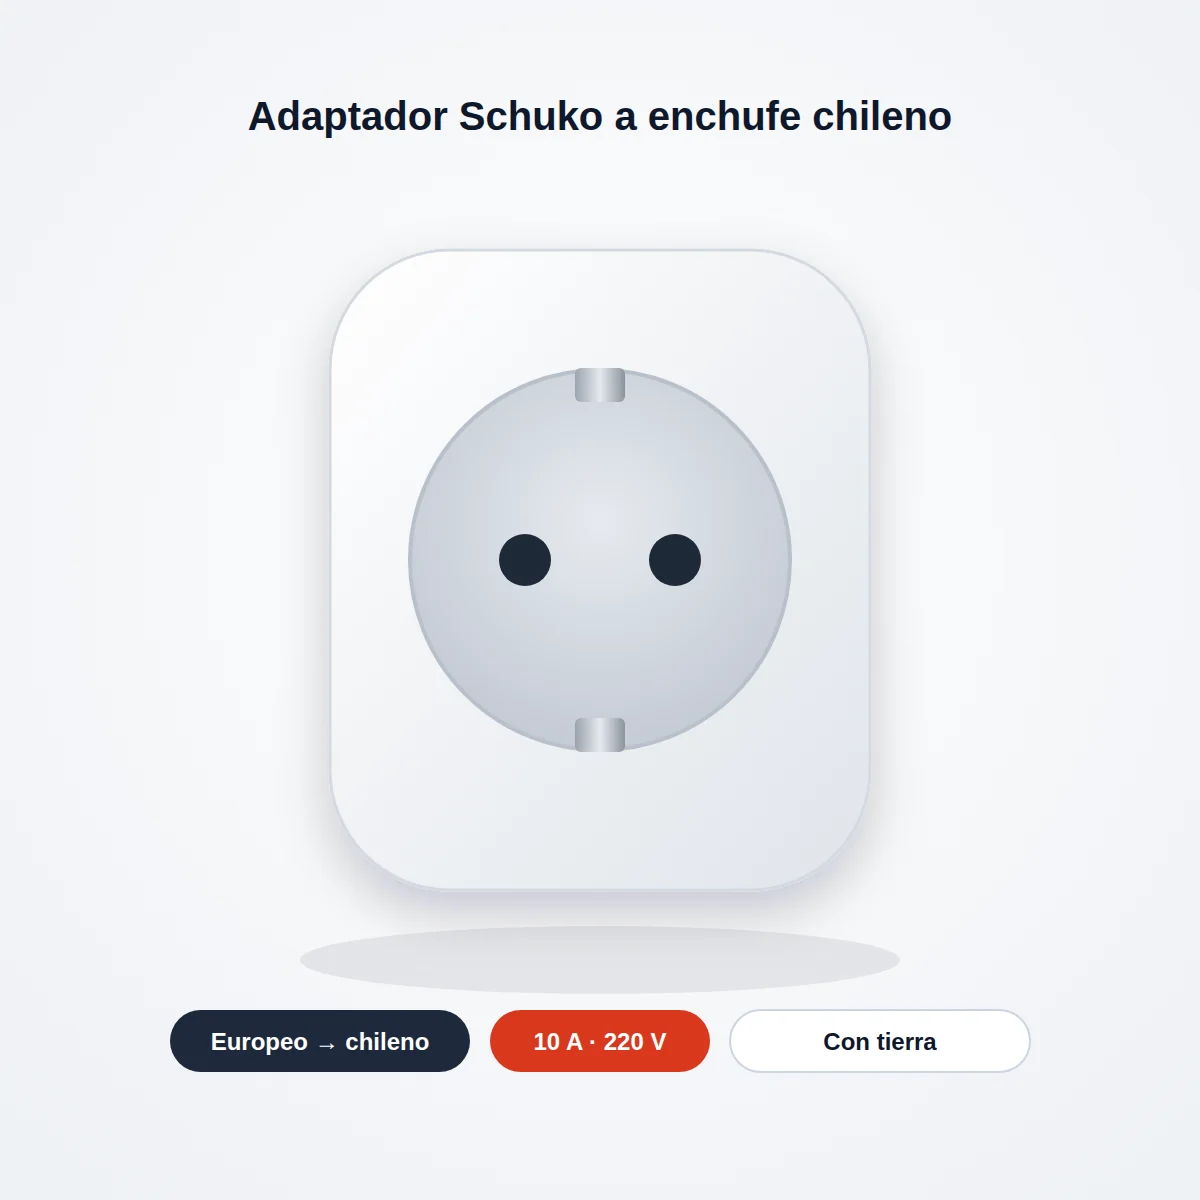
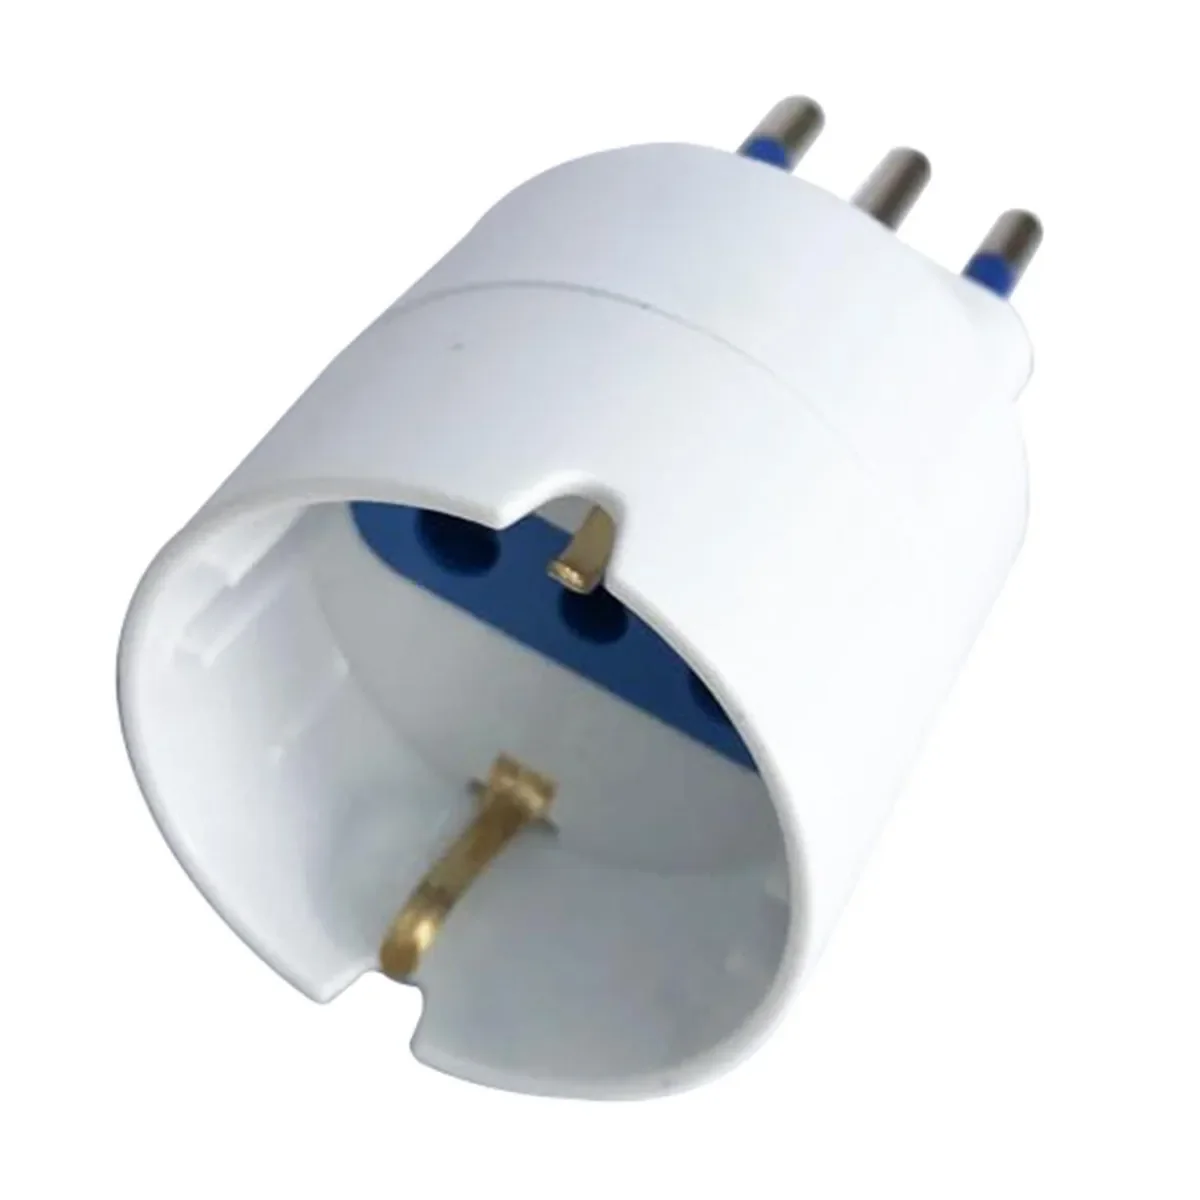
Halux adapter: real photos and overload protection details
Photos confirm the direction (Chilean 3-pin plug, Schuko socket) and
show an overload protector with manual reset and insulated pins.
Adds the three photos in a gallery and documents those features in
the spec table, safety tips, FAQ and catalog card.

Claude-Session: https://claude.ai/code/session_01DBPAUYL8BrfvACdajPm8UX

diff --git a/producto/adaptador-schuko-a-enchufe-chileno-10a.html b/producto/adaptador-schuko-a-enchufe-chileno-10a.html
@@ -28,8 +28,8 @@
 "@context":"https://schema.org",
 "@type":"Product",
 "name":"Adaptador Schuko a enchufe chileno 10 A blanco Halux",
-"description":"Adaptador Halux con toma Schuko (enchufe europeo) y enchufe chileno de 10 A, para conectar artefactos con enchufe europeo Schuko a enchufes de pared chilenos. 10 A, 220 V, una entrada, color blanco, garantía de 1 año.",
-"image":["https://www.ferreteriaukra.cl/producto/adaptador-schuko-a-enchufe-chileno-10a.webp"],
+"description":"Adaptador Halux con toma Schuko (enchufe europeo) y enchufe chileno de 3 patas de 10 A, para conectar artefactos con enchufe europeo Schuko a enchufes de pared chilenos. Con protección contra sobrecargas de rearme manual y patas con aislación en la base. 10 A, 220 V, una entrada, color blanco, garantía de 1 año.",
+"image":["https://www.ferreteriaukra.cl/producto/adaptador-schuko-a-enchufe-chileno-10a.webp","https://www.ferreteriaukra.cl/producto/adaptador-schuko-a-enchufe-chileno-10a-02.webp","https://www.ferreteriaukra.cl/producto/adaptador-schuko-a-enchufe-chileno-10a-03.webp"],
 "brand":{"@type":"Brand","name":"HALUX"},
 "color":"Blanco",
 "category":"Material eléctrico - Adaptadores de enchufe",
@@ -50,6 +50,8 @@
 {"@type":"PropertyValue","name":"Tensión","value":"220 V"},
 {"@type":"PropertyValue","name":"Potencia máxima","value":"2.200 W a 220 V"},
 {"@type":"PropertyValue","name":"Entradas","value":"1"},
+{"@type":"PropertyValue","name":"Protección","value":"Contra sobrecargas, rearme manual"},
+{"@type":"PropertyValue","name":"Patas","value":"Con aislación en la base"},
 {"@type":"PropertyValue","name":"Garantía","value":"1 año"}
 ]
 }
@@ -76,6 +78,7 @@
 {"@type":"Question","name":"¿Qué es un enchufe Schuko?","acceptedAnswer":{"@type":"Answer","text":"Es el enchufe europeo de dos patas redondas gruesas con contactos de tierra en los costados (tipo F). Lo traen muchos electrodomésticos importados, como cafeteras espresso, freidoras de aire, aspiradoras y herramientas, y no entra en el enchufe chileno de tres patas en línea."}},
 {"@type":"Question","name":"¿Cuánta potencia soporta el adaptador?","acceptedAnswer":{"@type":"Answer","text":"Es de 10 A, lo que equivale a 2.200 W en 220 V. Para artefactos que funcionan por horas, como estufas, recomendamos no pasar de unos 1.800 W para que el adaptador no se caliente."}},
 {"@type":"Question","name":"¿Sirve para viajar a Europa?","acceptedAnswer":{"@type":"Answer","text":"No, este adaptador funciona al revés: permite usar en Chile artefactos con enchufe europeo. Para usar tus artefactos chilenos en Europa necesitas el adaptador de enchufe chileno a Schuko."}},
+{"@type":"Question","name":"¿Qué hago si el adaptador deja de dar corriente?","acceptedAnswer":{"@type":"Answer","text":"Tiene una protección contra sobrecargas que corta la corriente si el artefacto consume más de lo que soporta. Desenchúfalo, espera unos 3 minutos y vuelve a enchufarlo, como indica su etiqueta. Si se corta seguido, el artefacto consume demasiado para un adaptador: conviene un enchufe Schuko fijo."}},
 {"@type":"Question","name":"¿Hacen envíos a regiones?","acceptedAnswer":{"@type":"Answer","text":"Sí, despachamos a todo Chile. Puedes comprar en línea o escribirnos por WhatsApp."}}
 ]
 }
@@ -258,7 +261,7 @@ try{var c=document.cookie.match(/(?:^|;\s*)rel_consent=([^;]+)/);if(c&&c[1]==='g
   <div>
     <div class="eyebrow">Material eléctrico · Adaptadores de enchufe</div>
     <h1 id="titulo-producto">Adaptador Schuko a Enchufe Chileno 10 A Blanco</h1>
-    <p class="lede">¿Tu cafetera, freidora de aire o herramienta trae <strong>enchufe europeo Schuko</strong> y no entra en el enchufe de tu casa? Este <strong>adaptador de enchufe europeo a chileno</strong> te deja conectarla a cualquier <strong>enchufe chileno de 10 A</strong>, sin cortar el cable y manteniendo la <strong>conexión a tierra</strong>.</p>
+    <p class="lede">¿Tu cafetera, freidora de aire o herramienta trae <strong>enchufe europeo Schuko</strong> y no entra en el enchufe de tu casa? Este <strong>adaptador de enchufe europeo a chileno</strong> te deja conectarla a cualquier <strong>enchufe chileno de 10 A</strong>, sin cortar el cable y manteniendo la <strong>conexión a tierra</strong>. Incluye <strong>protección contra sobrecargas</strong>.</p>
     <div class="price-panel" role="group" aria-label="Precio y cobertura de envío">
       <span class="price-label">Precio</span><strong>$5.890 <small>CLP</small></strong><span class="shipping">Envíos a todo Chile</span>
     </div>
@@ -272,11 +275,16 @@ try{var c=document.cookie.match(/(?:^|;\s*)rel_consent=([^;]+)/);if(c&&c[1]==='g
   </div>
   <div class="hero-media">
     <div class="main-shot">
-      <img id="mainShot" src="/producto/adaptador-schuko-a-enchufe-chileno-10a.webp" alt="Adaptador de enchufe Schuko europeo a enchufe chileno 10 A blanco" width="800" height="800" loading="eager">
+      <img id="mainShot" src="/producto/adaptador-schuko-a-enchufe-chileno-10a.webp" alt="Adaptador de enchufe Schuko europeo a enchufe chileno 10 A: toma Schuko con contactos de tierra" width="800" height="800" loading="eager">
       <div class="stock-note">
         <strong>En stock</strong>
         <span>Despacho en 24-48 h hábiles</span>
       </div>
+    </div>
+    <div class="thumbs" role="group" aria-label="Fotos del producto">
+      <button type="button" aria-current="true" data-src="/producto/adaptador-schuko-a-enchufe-chileno-10a.webp" data-alt="Adaptador de enchufe Schuko europeo a enchufe chileno 10 A: toma Schuko con contactos de tierra"><img src="/producto/adaptador-schuko-a-enchufe-chileno-10a.webp" alt="Ver foto de la toma Schuko del adaptador" width="84" height="84"></button>
+      <button type="button" data-src="/producto/adaptador-schuko-a-enchufe-chileno-10a-02.webp" data-alt="Enchufe chileno de 3 patas del adaptador Schuko, con aislación en la base y etiqueta de protección contra sobrecargas"><img src="/producto/adaptador-schuko-a-enchufe-chileno-10a-02.webp" alt="Ver foto del enchufe chileno de 3 patas" width="84" height="84" loading="lazy"></button>
+      <button type="button" data-src="/producto/adaptador-schuko-a-enchufe-chileno-10a-03.webp" data-alt="Adaptador Schuko a enchufe chileno con protección contra sobrecargas, vista de la toma"><img src="/producto/adaptador-schuko-a-enchufe-chileno-10a-03.webp" alt="Ver otra vista del adaptador" width="84" height="84" loading="lazy"></button>
     </div>
   </div>
 </section>
@@ -285,7 +293,7 @@ try{var c=document.cookie.match(/(?:^|;\s*)rel_consent=([^;]+)/);if(c&&c[1]==='g
 <section class="trust" aria-label="Garantías y servicio">
 <div class="trust-inner">
   <div class="trust-item"><strong>🔌 Europeo → chileno</strong><span>Toma Schuko, enchufe chileno 10 A</span></div>
-  <div class="trust-item"><strong>🌍 Con tierra</strong><span>No pierdes la protección del artefacto</span></div>
+  <div class="trust-item"><strong>⚡ Protección de sobrecarga</strong><span>Corta si el consumo es excesivo; mantiene la tierra</span></div>
   <div class="trust-item"><strong>🚚 Envío a todo Chile</strong><span>Despacho a domicilio o retiro</span></div>
   <div class="trust-item"><strong>🛡 Garantía 1 año</strong><span>Garantía del fabricante</span></div>
 </div>
@@ -313,11 +321,13 @@ try{var c=document.cookie.match(/(?:^|;\s*)rel_consent=([^;]+)/);if(c&&c[1]==='g
 <tbody>
 <tr><td>Marca</td><td>Halux</td></tr>
 <tr><td>Toma (hembra)</td><td>Schuko, para enchufes europeos tipo F</td></tr>
-<tr><td>Enchufe (macho)</td><td>Chileno de 10 A</td></tr>
+<tr><td>Enchufe (macho)</td><td>Chileno de 3 patas en línea, 10 A, con aislación en la base de las patas</td></tr>
 <tr><td>Corriente</td><td>10 A</td></tr>
 <tr><td>Tensión</td><td>220 V</td></tr>
 <tr><td>Potencia máxima</td><td>2.200 W a 220 V</td></tr>
 <tr><td>Entradas</td><td>1</td></tr>
+<tr><td>Protección</td><td>Contra sobrecargas, con rearme manual</td></tr>
+<tr><td>Conexión a tierra</td><td>Sí</td></tr>
 <tr><td>Color</td><td>Blanco</td></tr>
 <tr><td>Garantía</td><td>1 año</td></tr>
 </tbody>
@@ -379,6 +389,7 @@ try{var c=document.cookie.match(/(?:^|;\s*)rel_consent=([^;]+)/);if(c&&c[1]==='g
 <ul>
   <li><strong>No encadenes adaptadores</strong> ni lo conectes a una zapatilla ya cargada.</li>
   <li><strong>Enchúfalo a fondo.</strong> Un contacto flojo se calienta.</li>
+  <li><strong>Si la protección corta la corriente,</strong> desenchufa el adaptador, espera unos 3 minutos y vuelve a enchufarlo, como indica su etiqueta. Si corta seguido, el artefacto consume demasiado para un adaptador.</li>
   <li><strong>Si se pone tibio o huele a plástico, desconéctalo:</strong> el artefacto consume más de lo que el adaptador soporta.</li>
   <li><strong>Evita zonas húmedas</strong> como el borde del lavaplatos o el baño.</li>
   <li><strong>La tierra depende de tu instalación.</strong> El adaptador la traspasa, pero si tu enchufe de pared no tiene tierra, el artefacto tampoco. Más detalles en la ficha del <a href="/producto/cable-tierra-verde-2-5-mm2-libre-halogenos-100m">cable de tierra</a>.</li>
@@ -407,6 +418,11 @@ try{var c=document.cookie.match(/(?:^|;\s*)rel_consent=([^;]+)/);if(c&&c[1]==='g
 </details>
 
 <details>
+  <summary>¿Qué hago si el adaptador deja de dar corriente?</summary>
+  <p>Actuó la protección contra sobrecargas. Desenchúfalo, espera unos 3 minutos y vuelve a enchufarlo. Si se corta seguido, conviene un enchufe Schuko fijo.</p>
+</details>
+
+<details>
   <summary>¿Hacen envíos a regiones?</summary>
   <p>Sí, despachamos a todo Chile. Puedes comprar en línea o escribirnos por WhatsApp.</p>
 </details>
@@ -419,7 +435,7 @@ try{var c=document.cookie.match(/(?:^|;\s*)rel_consent=([^;]+)/);if(c&&c[1]==='g
   <div class="card">
     <span class="pill">Adaptador Schuko</span>
     <h2>Enchufe europeo a chileno 10 A</h2>
-    <p>Para usar en Chile artefactos con enchufe Schuko. Con tierra, garantía 1 año.</p>
+    <p>Para usar en Chile artefactos con enchufe Schuko. Con tierra y protección contra sobrecargas, garantía 1 año.</p>
     <a href="https://wa.me/56993514970?text=Hola%2C%20quiero%20comprar%20el%20adaptador%20Schuko%20a%20enchufe%20chileno%2010%20A%20a%20%245.890" class="btn btn-wa">Comprar por WhatsApp</a>
   </div>
 

diff --git a/productos/index.html b/productos/index.html
@@ -772,7 +772,7 @@ footer{background:#0F172A;color:#94A3B8;padding:3rem 0 1.5rem;margin-top:4rem;bo
         <div class="card-prod-brand">HALUX</div>
         <div class="card-prod-tag">Material Eléctrico</div>
         <h2 class="card-prod-title"><a href="/producto/adaptador-schuko-a-enchufe-chileno-10a">Adaptador Schuko a Enchufe Chileno 10 A</a></h2>
-        <p class="card-prod-excerpt">Usa en Chile cafeteras, freidoras de aire y herramientas con enchufe europeo Schuko. Con tierra, 10 A, garantía 1 año.</p>
+        <p class="card-prod-excerpt">Usa en Chile cafeteras, freidoras de aire y herramientas con enchufe europeo Schuko. Con tierra y protección de sobrecarga, 10 A.</p>
         <div class="card-prod-foot">
           <span class="card-prod-price">$5.890 <small>CLP</small></span>
           <a class="card-prod-cta" href="/producto/adaptador-schuko-a-enchufe-chileno-10a">Ver ficha</a>
